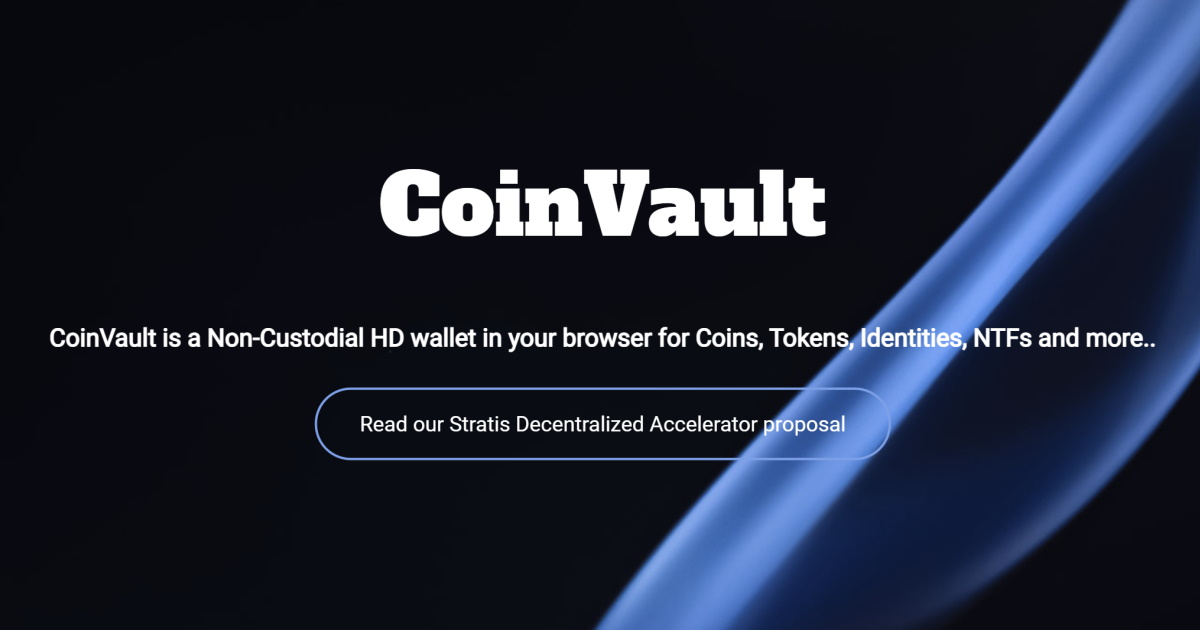
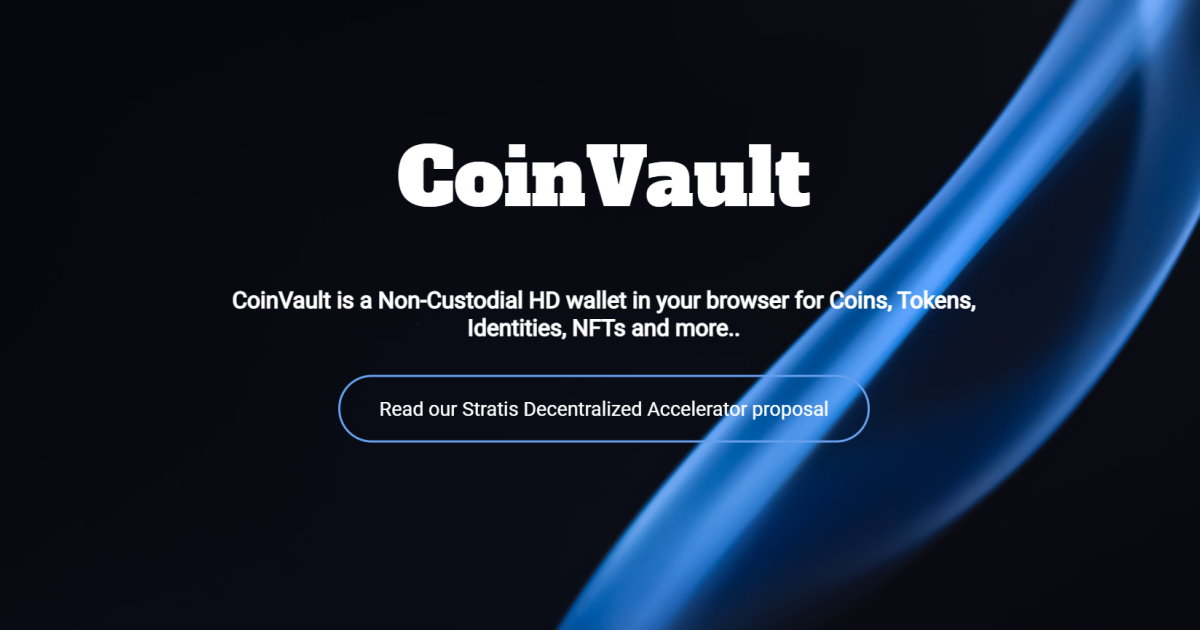
Fix typo for NFTs

diff --git a/src/index.html b/src/index.html
@@ -7,13 +7,13 @@
     <meta name="viewport" content="width=device-width, initial-scale=1.0, maximum-scale=1.0, user-scalable=no">
     <link href="styles.css?v=5" rel="stylesheet">
 
-    <meta name="description" content="CoinVault is a Non-Custodial HD wallet in your browser for Coins, Tokens, Identities, NTFs and more.." />
+    <meta name="description" content="CoinVault is a Non-Custodial HD wallet in your browser for Coins, Tokens, Identities, NFTs and more.." />
 
     <meta name="twitter:card" content="summary_large_image"/>
     <meta name="twitter:site" content="@blockcoredev">
     <meta name="twitter:creator" content="@blockcoredev">
     <meta name="twitter:title" content="CoinVault by Blockcore">
-    <meta name="twitter:description" content="CoinVault is a Non-Custodial HD wallet in your browser for Coins, Tokens, Identities, NTFs and more..">
+    <meta name="twitter:description" content="CoinVault is a Non-Custodial HD wallet in your browser for Coins, Tokens, Identities, NFTs and more..">
     <meta name="twitter:image:src" content="https://coinvault.blockcore.net/assets/social.jpg">
     <meta property="og:title" content="CoinVault by Blockcore" />
     <meta property="og:type" content="website">
@@ -21,7 +21,7 @@
     <meta property="og:image" content="https://coinvault.blockcore.net/assets/social.jpg" />
     <meta property="og:image:width" content="1200">
     <meta property="og:image:height" content="630">
-    <meta property="og:description" content="CoinVault is a Non-Custodial HD wallet in your browser for Coins, Tokens, Identities, NTFs and more.." />
+    <meta property="og:description" content="CoinVault is a Non-Custodial HD wallet in your browser for Coins, Tokens, Identities, NFTs and more.." />
 
     <link rel="preconnect" href="https://fonts.googleapis.com">
     <link rel="preconnect" href="https://fonts.gstatic.com" crossorigin>
@@ -37,7 +37,7 @@
     <div class="splash-image">
         <div class="splash-text">
             <h1>CoinVault</h1>
-            <h3>CoinVault is a Non-Custodial HD wallet in your browser for Coins, Tokens, Identities, NTFs and more..
+            <h3>CoinVault is a Non-Custodial HD wallet in your browser for Coins, Tokens, Identities, NFTs and more..
             </h3>
             <br><br>
             <!-- <a class="button-primary" href="https://github.com/block-core/extension/">Source Code</a> -->
